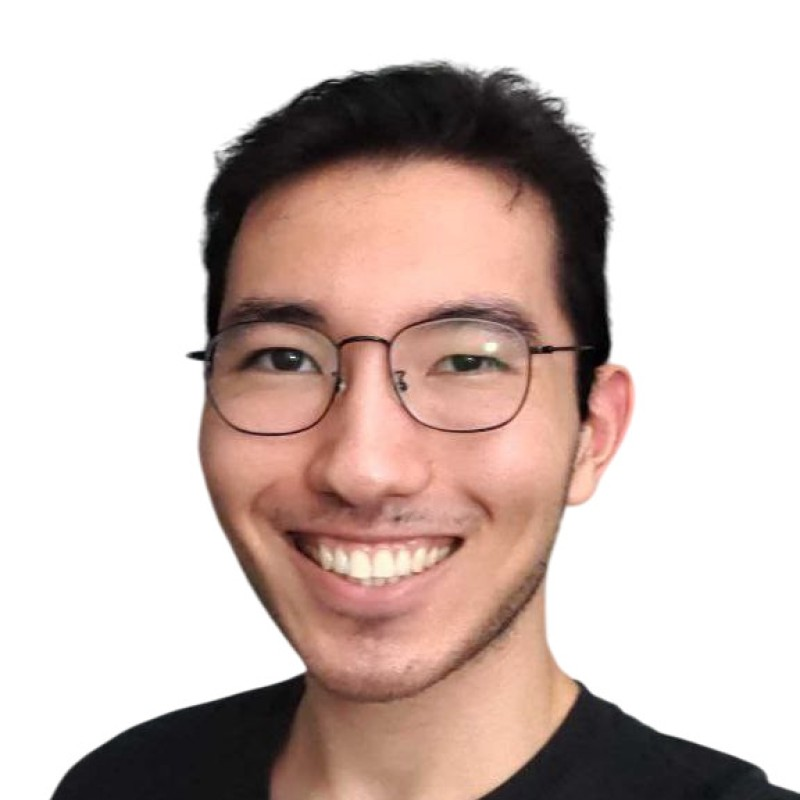
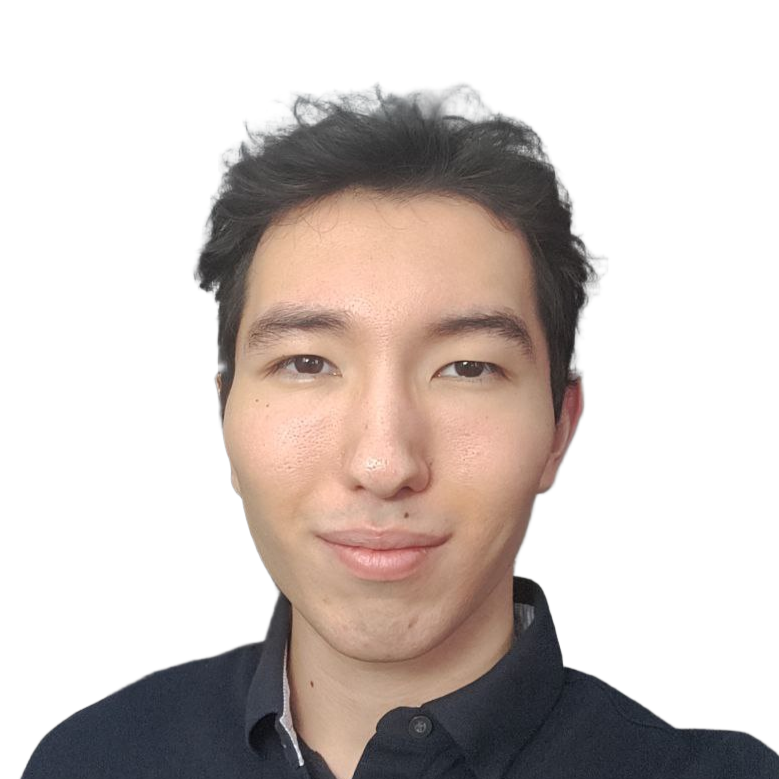
Updated the portfolio photo, project card sizes on smaller screens, made backgrounds and navbar stationary.

diff --git a/src/components/projectCardHorizontal/projectCardHorizontal.module.css b/src/components/projectCardHorizontal/projectCardHorizontal.module.css
@@ -7,30 +7,36 @@
   margin-inline: 1rem;
   justify-self: center;
   align-items: center;
-  box-shadow: 5px 5px 10px rgba(195, 195, 195, 0.804);
+  box-shadow: 5px 5px 10px rgba(71, 71, 71, 0.308);
   transition: transform 0.3s ease-in-out;
 }
+
 .flip {
   flex-direction: row-reverse;
 }
+
 .flip img {
   border-top-right-radius: 1rem;
   border-bottom-right-radius: 1rem;
 }
+
 .default img {
   border-top-left-radius: 1rem;
   border-bottom-left-radius: 1rem;
 }
+
 .imageLink img {
   min-height: 32rem;
   object-fit: cover;
   transition: filter 0.3s ease-in-out;
 }
+
 .imageLink {
   display: flex;
   align-items: center;
   justify-content: center;
 }
+
 .openText {
   text-align: center;
   z-index: 1;
@@ -41,6 +47,7 @@
   transition: opacity 0.3s ease-in-out;
   opacity: 0;
 }
+
 .container .imageLink:hover .openText {
   opacity: 1;
 }
@@ -104,73 +111,88 @@
   justify-content: center;
   gap: 0.5rem;
 }
+
 .horizontalFlex {
   display: flex;
   align-items: center;
   gap: 0.2rem;
 }
+
 .horizontalFlex h1 {
   text-wrap: wrap;
 }
+
 .horizontalFlex svg {
   min-width: 2rem;
   max-width: 2rem;
 }
 
 @media only screen and (max-width: 1500px) {
+
   .container,
   .flip {
     min-width: 40rem;
     max-width: 40rem;
     flex-direction: column;
   }
+
   .imageLink img {
     min-height: fit-content;
   }
+
   .container img {
     object-fit: contain;
   }
+
   .flip img,
   .default img {
     border-radius: 0;
     border-top-right-radius: 1rem;
     border-top-left-radius: 1rem;
   }
+
   .content {
     display: flex;
     width: fit-content;
     align-items: center;
   }
+
   .verticalFlex {
     min-width: inherit;
     flex-wrap: wrap;
     flex-direction: row;
   }
 }
-@media only screen and (max-width: 800px) {
+
+@media only screen and (max-width: 1000px) {
+
   .container,
   .flip,
   .default {
-    min-width: 27rem;
-    max-width: 27rem;
+    min-width: 25rem;
+    max-width: 25rem;
   }
+
   .content {
     display: block;
   }
+
   .content a {
     display: flex;
     justify-content: center;
     align-items: center;
   }
+
   .horizontalFlex h1 {
     text-wrap: nowrap;
   }
 }
 
 @media only screen and (max-width: 400px) {
+
   .container,
   .flip,
-  .default  {
+  .default {
     min-width: 21.5rem;
     max-width: 21.5rem;
   }

diff --git a/src/pages/landing/landing.module.css b/src/pages/landing/landing.module.css
@@ -1,24 +1,17 @@
 .imageContainer {
-  background-image: url("./swiss-alps-winterscape-snow-mountains-adelboden-switzerland-6143x3686-7206.jpg");
+  background-image: url("./pexels-abby-chung-371167-1191377.png");
   background-size: cover;
   background-repeat: no-repeat;
+  background-position: center;
+  background-attachment: fixed;
 }
-
 .container {
   display: flex;
   padding-block-start: 5rem;
-  padding-inline: 32rem;
-  padding-block-end: 1rem;
   flex-direction: column;
   justify-content: center;
   align-items: center;
-  background: linear-gradient(
-    transparent,
-    #ffffff5a,
-    #ffffffc5,
-    #ffffff,
-    #ffffff
-  );
+
 }
 .container img {
   align-self: end;
@@ -70,9 +63,8 @@
   display: block;
   background: white;
   border-radius: 1rem;
-  margin: 1rem;
+  margin-block-end: 1rem;
   padding: 1rem;
-  width: 100%;
   max-width: 50rem;
   box-shadow: 5px 5px 20px rgb(180, 180, 180);
 }
@@ -130,6 +122,12 @@
   }
 }
 @media only screen and (max-width: 1500px) {
+  .about_me {
+    display: flex;
+    flex-direction: column;
+  }
+  .whiteBox {
+  }
   .container{
     padding-inline: 15rem;
   }
@@ -140,7 +138,7 @@
     flex-direction: column;
   }
   .whiteBox {
-    max-width: max-content;
+    width: 91vw;
   }
   .container{
     padding-inline: 1rem;

diff --git a/src/pages/glossary/glossary.module.css b/src/pages/glossary/glossary.module.css
@@ -6,25 +6,19 @@
   gap: 1rem;
   margin-block-end: 1rem;
 }
+
 .imageContainer {
   background-image: url("./pexels-pixabay-206359.jpg");
-  background-size: fit;
+  background-size: cover;
+  background-repeat: no-repeat;
+  background-position: center;
+  background-attachment: fixed;
 }
+
 .container {
   display: flex;
   padding-block-start: 5rem;
   flex-direction: column;
   justify-content: center;
   align-items: center;
-  background: linear-gradient(
-    transparent,
-    #ffffff5a,
-    #ffffffc5,
-    #ffffff,
-    #ffffff,
-    #ffffff,
-    #ffffff,
-    #ffffff,
-    #ffffff
-  );
 }

diff --git a/src/pages/landing/landing.tsx b/src/pages/landing/landing.tsx
@@ -11,7 +11,7 @@ export default function LandingPage() {
             <div className={landingStyles.greeting}>
               <p>Hello there!</p>
             </div>
-            <img src="./avatar.jpg" alt="" />
+            <img src="./avatar.png" alt="" />
           </div>
           <div className={landingStyles.whiteBox}>
             <div className={landingStyles.title}>

diff --git a/src/components/projectCard/projectCard.module.css b/src/components/projectCard/projectCard.module.css
@@ -3,7 +3,7 @@
   background: white;
   border-radius: 1rem;
   max-width: 50rem;
-  box-shadow: 5px 5px 10px rgba(228, 228, 228, 0.804);
+  box-shadow: 5px 5px 10px rgba(71, 71, 71, 0.308);
   transition: transform 0.3s ease-in-out;
 }
 .imageLink img {

diff --git a/src/components/navbar/navbar.module.css b/src/components/navbar/navbar.module.css
@@ -1,5 +1,6 @@
 .container {
-  position: absolute;
+  position: fixed;
+  z-index: 1000;
   background: white;
   transition: all 0.3s ease-in-out;
   border-radius: 10rem;
